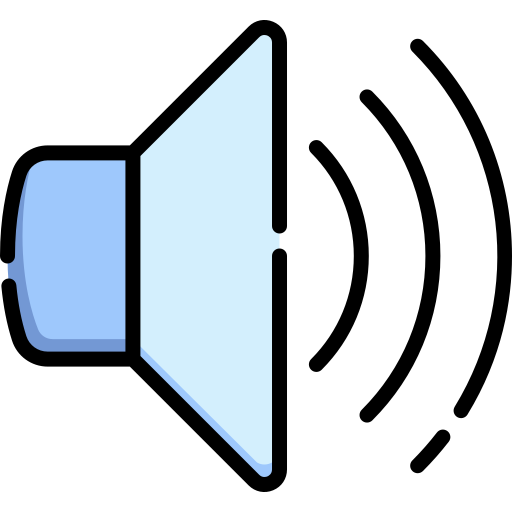
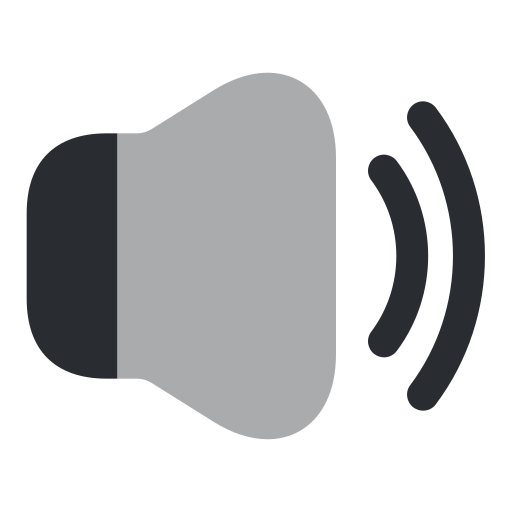
音量调节

diff --git a/src/renderer/src/components/controller/index.vue b/src/renderer/src/components/controller/index.vue
@@ -19,7 +19,11 @@
     img.icon(:src="nextImage")
   .button(@click="setPlayMode")
     img.icon(:src="playModeMap[getControllerStore.playMode]")
-AudioComponent(ref="audioIns" @playEnd="next")
+  .volumeButton(@wheel="onChangeVolume" ref="volumeButtonIns" @mousedown="setVolume")
+    img.icon(:src="soundImage")
+    .stateBar(:style="`width:${getControllerStore.volume}%`")
+    .value {{Math.floor(getControllerStore.volume)}}
+AudioComponent(ref="audioIns" @playEnd="next" @volumeChanged="volumeChanged")
 Transition(name="floatUp")
   KeepAlive
     Lyric(
@@ -47,6 +51,7 @@ import nextImage from '@/assets/img/next.png'
 import musicImage from '@/assets/img/music.png'
 import defaultImage from '@/assets/img/default.png'
 import randomImage from '@/assets/img/random.png'
+import soundImage from '@/assets/img/sound.png'
 // store
 const getControllerStore = controllerStore()
 const getSettingStore = settingStore()
@@ -85,6 +90,33 @@ const last = () => {
   } else {
     getControllerStore.setPlayIndex(getControllerStore.getPlayIndex - 1)
   }
+}
+// 音量调节
+const volumeButtonIns = ref()
+
+const onChangeVolume = (e) => {
+  audioIns.value.setVolume(getControllerStore.volume - Math.sign(e.deltaY) * 5)
+}
+let volumeTimer
+const volumeChanged = (v) => {
+  clearTimeout(volumeTimer)
+  volumeTimer = setTimeout(() => {
+    getControllerStore.controllerServer?.updateSocket?.('volume', v)
+  }, 300)
+}
+const setVolume = (e) => {
+  const rect = volumeButtonIns.value.getBoundingClientRect()
+  const setVolumeByPosition = ({ x, y }) => {
+    audioIns.value.setVolume(Math.ceil(((x - rect.x) / rect.width) * 100))
+  }
+  const stop = () => {
+    document.removeEventListener('mousemove', setVolumeByPosition)
+    document.removeEventListener('mouseup', stop)
+    document.removeEventListener('mouseleave', stop)
+  }
+  document.addEventListener('mousemove', setVolumeByPosition)
+  document.addEventListener('mouseup', stop)
+  document.addEventListener('mouseleave', stop)
 }
 // 歌词控制器
 const lyricVisible = ref(false)
@@ -147,10 +179,12 @@ const getController = () => ({
   playPause: () => {
     getControllerStore.isPlaying ? audioIns.value.pause() : audioIns.value.play()
   },
+  setVolume: audioIns.value.setVolume,
   getMusicData: () => ({
     musicInfo: toRaw(musicInfo.value),
     isPlaying: getControllerStore.isPlaying,
-    playMode: getControllerStore.playMode
+    playMode: getControllerStore.playMode,
+    volume: getControllerStore.volume
   }),
   setPlayMode,
   setPlayingUrl: (value) => {
@@ -205,7 +239,7 @@ onMounted(() => {
   align-items center
   box-sizing border-box
   justify-content center
-  padding 10px 10vw
+  padding 10px 5vw
   border-radius 15px
   background-color rgba(46,169,223,.2)
   margin-top 10px
@@ -280,4 +314,45 @@ onMounted(() => {
       .icon
         width 32px
         height 32px
+  .volumeButton
+    width 45px
+    height 45px
+    display flex
+    align-items center
+    border-radius 13px
+    transition all 0.3s 0.5s
+    position relative
+    overflow hidden
+    .icon
+      width 26px
+      height 26px
+      //transition all 0.3s
+      position absolute
+      left 50%
+      transform translateX(-50%)
+      transition opacity 0.3s
+    .stateBar
+      opacity 0
+      background-color rgba(46,169,223,.5)
+      transition opacity 0.3s , width 0.1s
+      height 100%
+    .value
+      position absolute
+      width 100%
+      height 100%
+      display flex
+      justify-content center
+      align-items center
+      opacity 0
+      color rgba(255,255,255,.4)
+      font-weight bolder
+    &:hover
+      background-color rgba(46,169,223,.2)
+      width 160px
+      transition-delay 0s
+      .icon
+        opacity 0
+      .value
+      .stateBar
+        opacity 1
 </style>

diff --git a/controller-web/src/App.vue b/controller-web/src/App.vue
@@ -1,8 +1,14 @@
 <template lang="pug">
-#controller
+#controller(
+  @touchstart.prevent="touchstart"
+  @touchmove.prevent="touchmove"
+  @touchend.prevent="touchend"
+  :style="`background:linear-gradient(to top ,#b8d8ed 0,#b8d8ed ${musicData?.volume??50}%,#FFFFFF ${musicData?.volume??50}%,#FFFFFF 100%);`"
+  )
   .title {{musicData?.musicInfo?.title}}
+  .subTitle {{musicData?.musicInfo?.artists?.join(' ')}}
   img.album(:src="musicData?.musicInfo?.albumPic??musicImage")
-  .buttons
+  .buttons(@touchstart.stop @touchmove.stop @touchend.stop)
     img.button(:src="listImage" @click="musicListIns.setVisible")
     img.button(:src="lastImage" @click="last")
     img.button(v-if="musicData?.isPlaying" :src="pauseImage" @click="pause")
@@ -37,6 +43,22 @@ const playModeMap = reactive({
 })
 const musicData = ref({})
 const musicListIns = ref({})
+const touchstartData = {}
+const touchstart = (e) => {
+  touchstartData.y = e.targetTouches[0].pageY
+  touchstartData.volume = musicData.value.volume
+  touchstartData.height = document.body.getBoundingClientRect().height
+}
+const touchmove = (e) => {
+  const v = Math.ceil(((e.targetTouches[0].pageY - touchstartData.y) / touchstartData.height) * 250)
+  musicData.value.volume = Math.min(Math.max(0, touchstartData.volume - v), 100)
+}
+const touchend = () => {
+  axios.post('/action', {
+    action: 'setVolume',
+    args: [musicData.value.volume]
+  })
+}
 const play = () => {
   axios.post('/action', {
     action: 'play'
@@ -97,6 +119,9 @@ const createSocket = () => {
     .on('playMode', (data) => {
       musicData.value.playMode = data
     })
+    .on('volume', (data) => {
+      musicData.value.volume = data
+    })
     .connect()
 }
 const connect = () => {
@@ -131,10 +156,15 @@ watch(connecting, () => {
   align-items center
   overflow hidden
   flex-direction column
-  background-color #FFFFFF
+  position relative
   .title
     font-size 3.2vh
     margin-bottom 5vh
+    font-weight 1000
+  .subTitle
+    font-size 2vh
+    font-weight 700
+    margin-bottom 3vh
   .album
     width 40vw
     margin-bottom 20vh

diff --git a/src/renderer/src/components/controller/audio/index.vue b/src/renderer/src/components/controller/audio/index.vue
@@ -7,13 +7,13 @@ audio(
   @play="onPlay"
   @pause="onPause"
   @ended="onEnded"
-  @complete="onComplete"
+  @volumechange="onVolumeChange"
   )
 </template>
 <script setup>
 import { computed, onMounted, ref, watch } from 'vue'
 import { controllerStore, settingStore } from '@/store'
-const emits = defineEmits(['currentChanged', 'playEnd'])
+const emits = defineEmits(['currentChanged', 'playEnd', 'volumeChanged'])
 const getControllerStore = controllerStore()
 const getSettingStore = settingStore()
 const audioIns = ref()
@@ -30,8 +30,9 @@ const onPause = () => {
 const onEnded = () => {
   emits('playEnd')
 }
-const onComplete = () => {
-  // audioIns.value.autoplay = true
+const onVolumeChange = () => {
+  getControllerStore.volume = audioIns.value.volume * 100
+  emits('volumeChanged', getControllerStore.volume)
 }
 // 触发事件
 const play = async () => {
@@ -52,6 +53,12 @@ const setCurrent = (current) => {
     onCurrentUpdate()
   }
 }
+const setVolume = (volume) => {
+  if (musicData.value !== '') {
+    audioIns.value.volume = Math.min(Math.max(0, volume), 100) / 100
+    onVolumeChange()
+  }
+}
 const loadData = async () => {
   musicData.value = URL.createObjectURL(
     new File(
@@ -63,7 +70,8 @@ const loadData = async () => {
 defineExpose({
   play,
   pause,
-  setCurrent
+  setCurrent,
+  setVolume
 })
 watch(
   computed(() => getControllerStore.playingUrl),

diff --git a/public/static/index.html b/public/static/index.html
@@ -5,8 +5,8 @@
     <link rel="icon" type="image/svg+xml" href="/controller/icon.png" />
     <meta name="viewport" content="width=device-width, initial-scale=1.0" />
     <title>limit 音乐 控制台</title>
-    <script type="module" crossorigin src="/controller/assets/index-8621308e.js"></script>
-    <link rel="stylesheet" href="/controller/assets/index-b49975a4.css">
+    <script type="module" crossorigin src="/controller/assets/index-d1bae6f5.js"></script>
+    <link rel="stylesheet" href="/controller/assets/index-dd20d11d.css">
   </head>
   <body>
     <div id="app"></div>

diff --git a/official/index.html b/official/index.html
@@ -17,7 +17,7 @@
 </script>
 <h1 id="title">limit-music</h1>
 <h3 id="subtitle">让音乐更简单</h3>
-<a href="https://wwcp.lanzout.com/iIgF60nyrp0f" target="_blank"><div id="downloadButton">download</div></a>
+<a href="https://wwcp.lanzout.com/iXUaY0o0kgwd" target="_blank"><div id="downloadButton">download</div></a>
 <a href="https://github.com/zhijing-liu/limit-music" target="_blank"><img id="github" src="limitMusic/source/img/github.png" alt=""/></a>
 </body>
 </html>

diff --git a/src/renderer/src/store/index.js b/src/renderer/src/store/index.js
@@ -58,6 +58,7 @@ export const controllerStore = defineStore('controller', {
     musicMap: {},
     playingUrl: localStorage.getItem('playingUrl') ?? '',
     current: 0,
+    volume: 100,
     isPlaying: false,
     playMode: localStorage.getItem('playMode') ?? 'default', // 'default' 'random',
     audioPlayerInstance: null,
